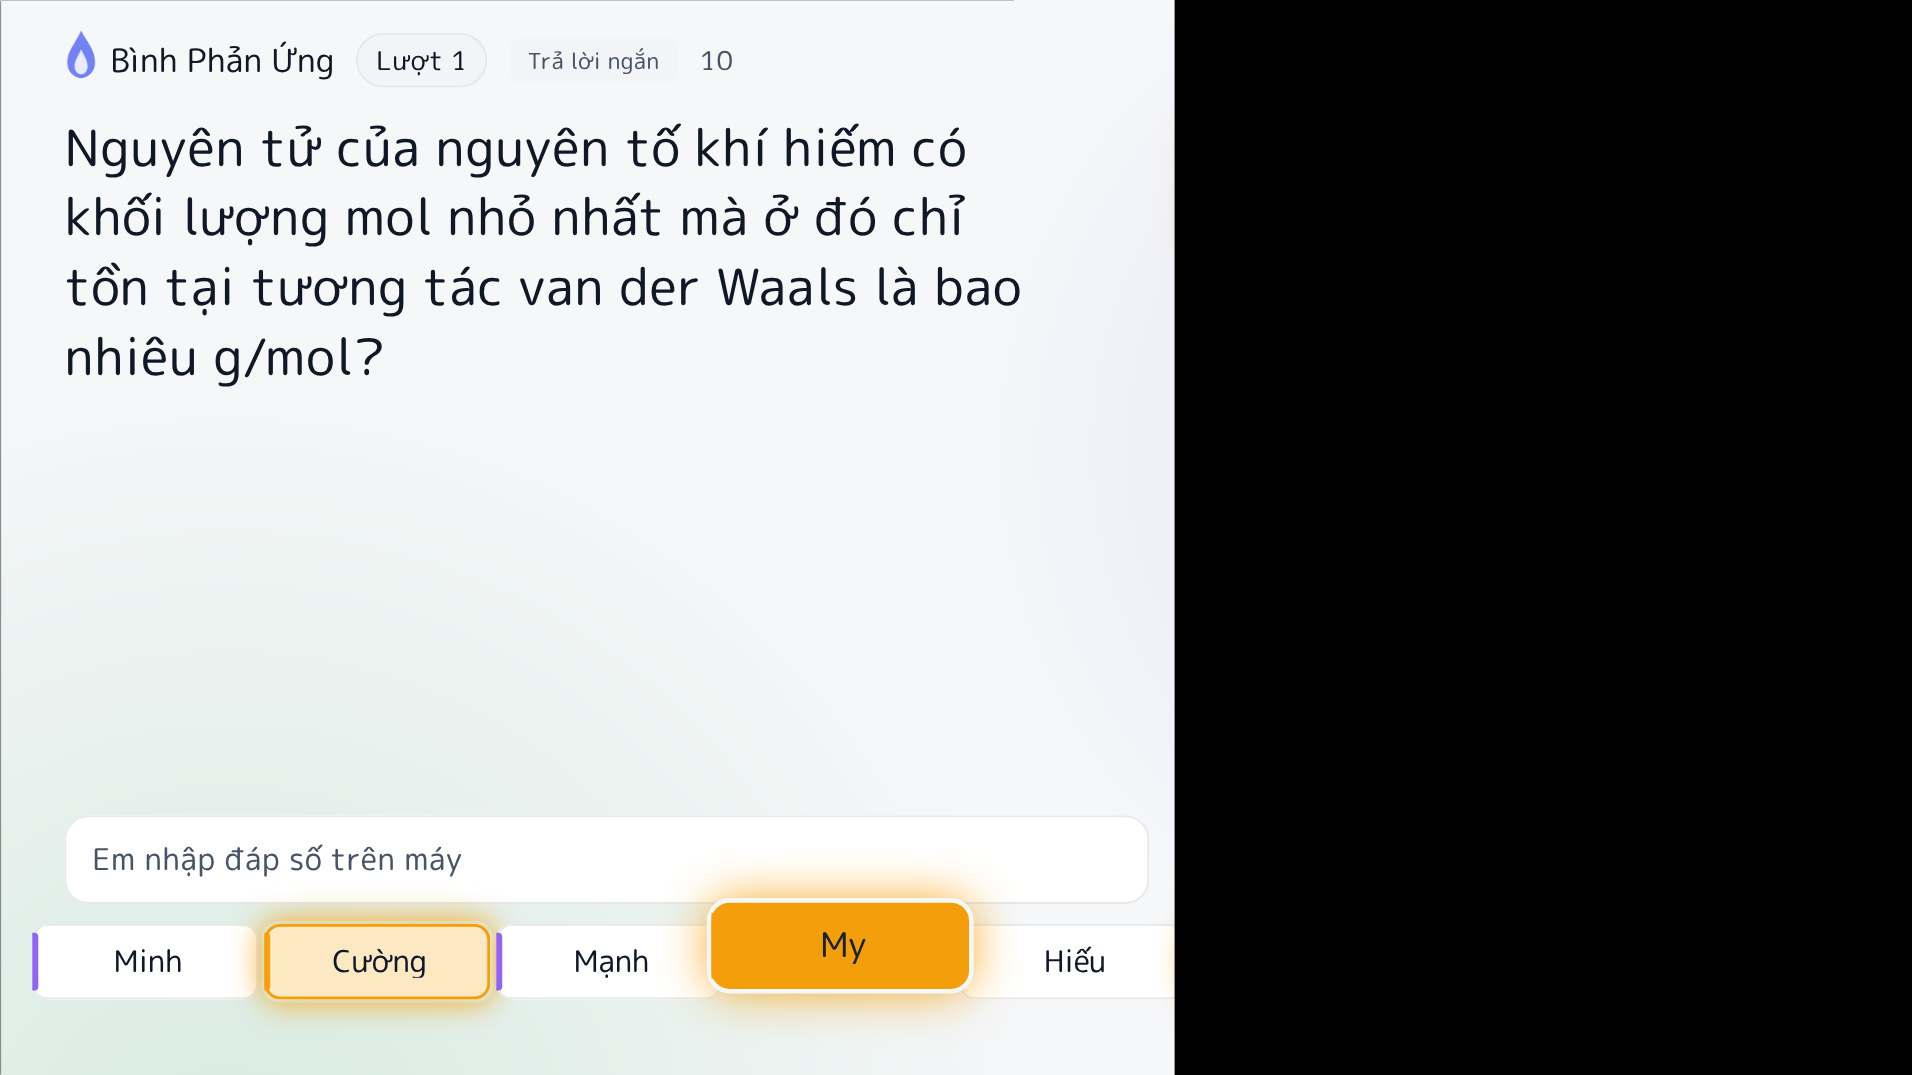
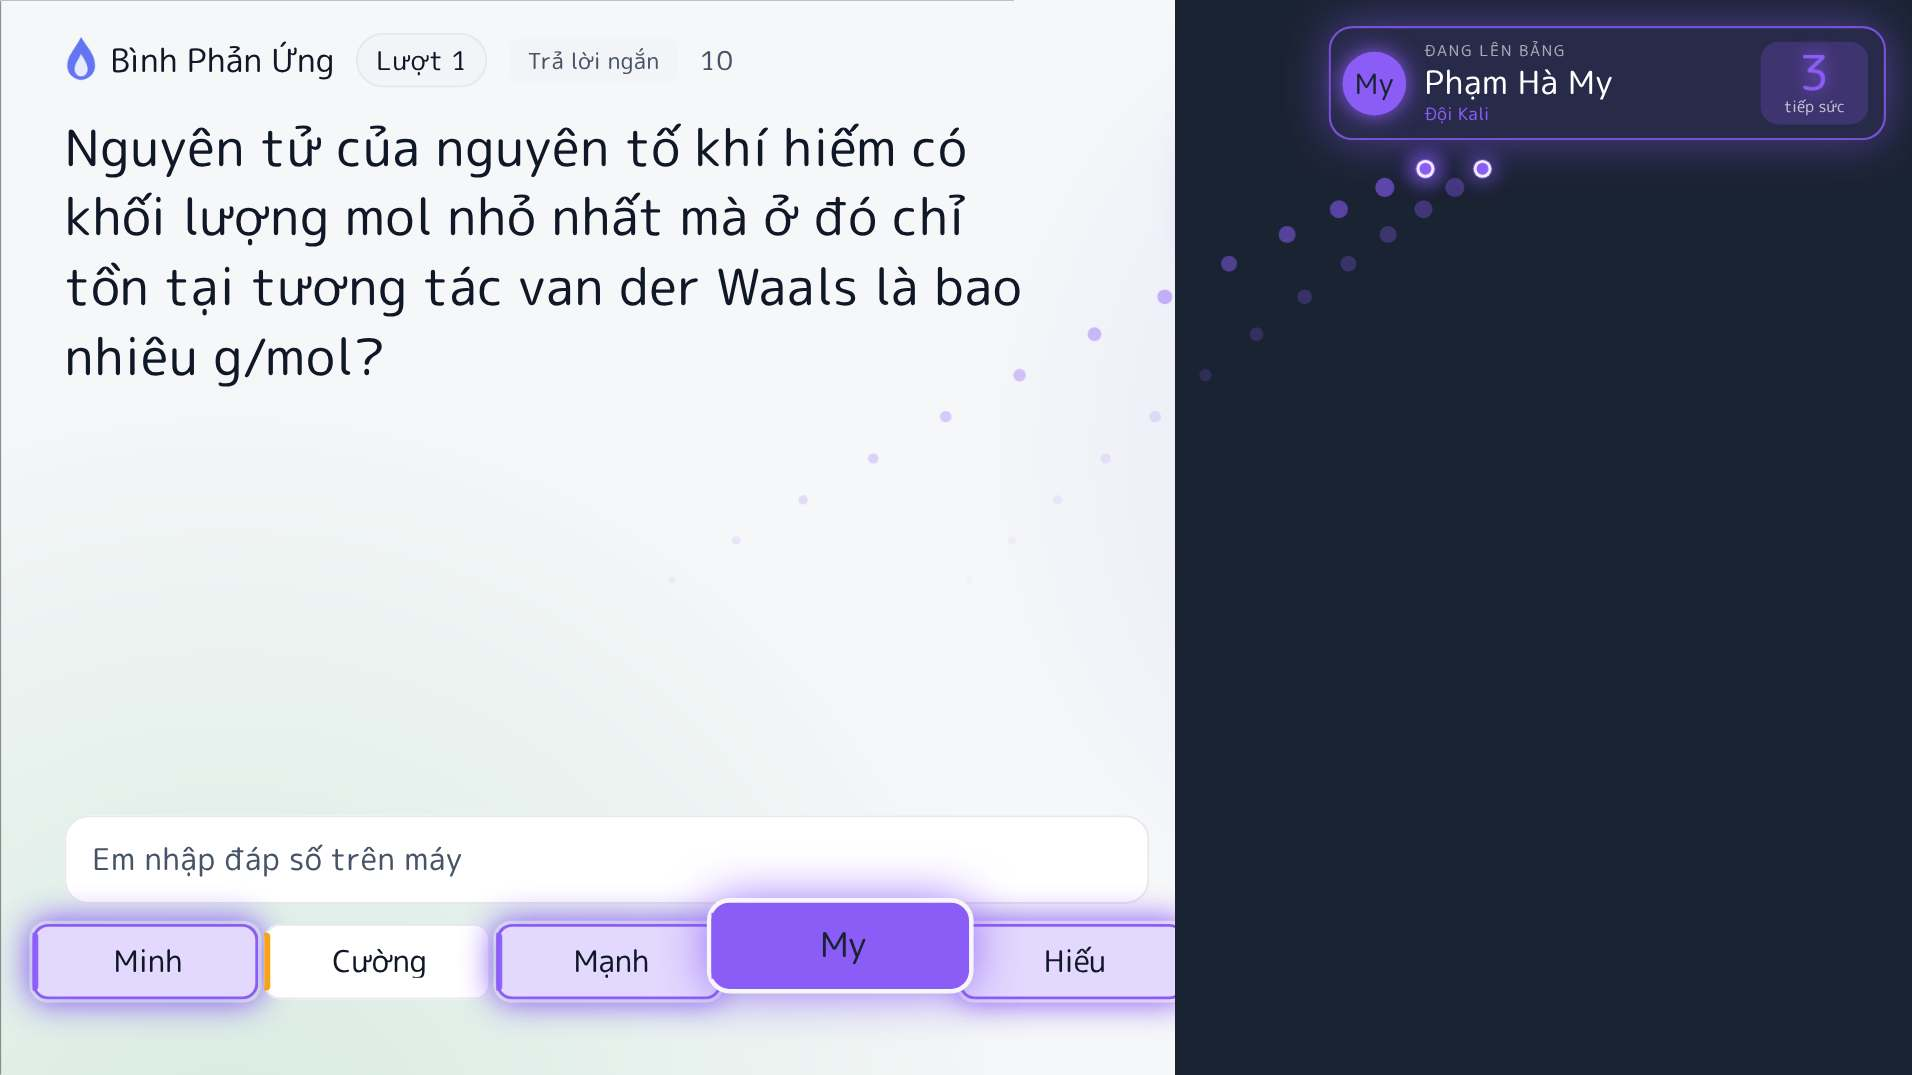
Bình Phản Ứng · em viết bảng: vùng phải tối nằm TRONG bảng dưới lớp hiệu ứng ⇒ tia lửa tiếp sức vẫn bay trên nền tối; thẻ nhỏ góc trên (chấm đội · tên · đội · SỐ TIẾP SỨC lớn, mỗi lượt tiếp sức số nảy + thẻ bừng sáng), tia lửa bay vào thẻ; ẩn nút Đóng lúc này (Esc vẫn đóng) (thầy 07/11)
Claude-Session: https://claude.ai/code/session_01Ep3ep8ZpZKueNTRQ5N28vH

diff --git a/src/components/bpu/BangBinhPhanUng.tsx b/src/components/bpu/BangBinhPhanUng.tsx
@@ -97,6 +97,8 @@ export default function BangBinhPhanUng({ buoiId, ma, linkQr, qid, luot = 0, gia
   /** TẮT VÙNG EM VIẾT (thầy 07/11 «tắt máy chiếu ở phần học sinh viết lên bảng» · «chỉ tắt phần hs lên bảng làm thôi»): pha «làm bảng» ⇒ nửa phải
    *  (cột kết quả) đen — máy chiếu không rọi lên chỗ em viết, đề bên trái vẫn sáng; phím D / F / N / Space vẫn chạy; B (hoặc chạm) bật lại, B lần nữa tắt. */
   const [batLai, setBatLai] = useState(false)
+  const batLaiRef = useRef(false)
+  batLaiRef.current = batLai
   const sangCau = useCallback((d: 1 | -1) => { setDangSang(true); onToi?.(d) }, [onToi])
   /** LỜI GIẢI TRÊN BẢNG (thầy 07/11 «bấm lời giải lại hiện bảng chiếu cũ»): G / nút / máy điều khiển ⇒ hộp lời giải thu gọn đè chỗ đề; G lần nữa ẩn. */
   const [giai, setGiai] = useState<string | null>(null)
@@ -203,6 +205,8 @@ export default function BangBinhPhanUng({ buoiId, ma, linkQr, qid, luot = 0, gia
 
   const l = v?.luot ?? null
   const man: Man = manPhu ?? (!l ? 'diem-danh' : l.pha)
+  /** Em đang viết bảng và thầy chưa bật lại vùng phải ⇒ vùng phải tối, chỉ còn thẻ góc + hiệu ứng tiếp sức. */
+  const vietBang = man === 'lam-bang' && !batLai && !moPhim
   const ds = v?.ds ?? []
   // Dải tên: CHỈ các em có mặt (thầy 07/11), tối đa hai hàng; thứ tự giữ theo danh sách lớp.
   const hien = useMemo(() => (v?.ds ?? []).filter((e) => e.vao), [v?.ds])
@@ -270,7 +274,8 @@ export default function BangBinhPhanUng({ buoiId, ma, linkQr, qid, luot = 0, gia
     }
     if (l2?.goi && l1?.goi && l1.so === l2.so && l2.goi.tiep > l1.goi.tiep) {
       const ban = v.ds.filter((e) => e.doi === v.ds.find((x) => x.sbd === l2.goi!.sbd)?.doi && e.sbd !== l2.goi!.sbd && e.vao)
-      const den = l2.pha === 'lam-bang' ? { x: 1266, y: 222 } : { x: 496, y: 427 }
+      // Em đang viết bảng (vùng phải tắt) ⇒ tia lửa bay vào THẺ GÓC trên phải; bật lại màn ⇒ thẻ cột phải như cũ.
+      const den = l2.pha === 'lam-bang' ? (batLaiRef.current ? { x: 1266, y: 222 } : { x: 1612, y: 112 }) : { x: 496, y: 427 }
       for (let n = 0; n < Math.min(6, l2.goi.tiep - l1.goi.tiep); n++) { const b = ban[Math.floor(Math.random() * ban.length)]; if (b) vb.bayHat(viTriO(idx.get(b.sbd)!, L), den, vb.mau.doi[b.doi]!, 800) }
     }
     if (l2?.pha === 'mo' && l1?.pha !== 'mo' && !l2.tuLuan) {
@@ -513,15 +518,14 @@ export default function BangBinhPhanUng({ buoiId, ma, linkQr, qid, luot = 0, gia
   }
 
   return createPortal(
-    <div ref={goc} className="bpu-bang" role="dialog" aria-modal="true" aria-label="Bình Phản Ứng" tabIndex={-1}>
+    <div ref={goc} className={`bpu-bang${vietBang ? ' viet-bang' : ''}`} style={vietBang ? { ['--mep' as string]: `calc(50% + ${(1180 - 960) * k}px)` } : undefined} role="dialog" aria-modal="true" aria-label="Bình Phản Ứng" tabIndex={-1}>
       <div ref={san} className="bb-san" style={{ transform: `translate(-50%, -50%) scale(${k})` }}>
         <canvas ref={cv} className="bb-ve" aria-hidden="true" />
         {noi}
+        {vietBang && l?.goi && goiEm ? <VungVietBang g={l.goi} em={goiEm} tenHien={(e: Em) => (an ? ten(e) : e.ten)} onBat={() => setBatLai(true)} /> : null}
         <canvas ref={cvTren} className="bb-ve tren" aria-hidden="true" />
       </div>
       <button type="button" className="bb-dong" onClick={onDong} aria-label="Đóng bảng Bình Phản Ứng">Đóng</button>
-      {/* Chỉ tắt VÙNG EM VIẾT (bên phải, từ mép cột đề tới hết màn); đề bên trái vẫn sáng (thầy 07/11 «chỉ tắt phần hs lên bảng làm thôi»). */}
-      {man === 'lam-bang' && !batLai && !moPhim ? <div className="bb-tat-man" role="status" aria-label="Vùng em viết tạm tắt chiếu. B hoặc chạm để bật lại" style={{ left: `calc(50% + ${(1180 - 960) * k}px)` }} onClick={() => setBatLai(true)} /> : null}
     </div>,
     document.body,
   )
@@ -571,4 +575,19 @@ function nhanOng(l: NonNullable<ViewBang['luot']>, vb: VeBang | null): { x: numb
   if (l.phan === 'II') return ['D', 'S'].flatMap((k, h) => [0, 1, 2, 3].map((i) => ({ x: X_DS(i), y: HANG_DS[h]!.day - 128 + 8, gon: true, nhan: `${'abcd'[i]})`, dem: chon.filter((x) => x.toUpperCase()[i] === k).length, dung: dung[i] === k })))
   void vb
   return nhomTln(l).map((x, i) => ({ x: 1300 + i * 152, y: ONG_GON.day - 128 + 14, ...x }))
+}
+
+/** VÙNG EM VIẾT (thầy 07/11 «chỉ tắt phần hs lên bảng làm thôi» · «vẫn hiện thẻ hs lên bảng ở góc trên chỗ màu đen, làm cho tinh tế, hiệu ứng tiếp sức
+ *  vẫn hiện đầy đủ để hs thấy phấn khích»): nửa phải tối (máy chiếu gần như không rọi lên chỗ em viết) — góc trên một thẻ nhỏ: chấm đội · tên · đội ·
+ *  SỐ TIẾP SỨC lớn (mỗi lượt tiếp sức: số nảy + thẻ bừng sáng); tia lửa từ ô các bạn bay vào thẻ (canvas trên cùng vẫn vẽ trên vùng tối). Chạm ⇒ bật lại. */
+function VungVietBang({ g, em, tenHien, onBat }: { g: NonNullable<NonNullable<ViewBang['luot']>['goi']>; em: Em; tenHien: (e: Em) => string; onBat: () => void }) {
+  return (
+    <div className="bb-den" role="status" aria-label="Vùng em viết tạm tắt chiếu. B hoặc chạm để bật lại" onClick={onBat} style={{ ['--doi' as string]: mauDoi(em.doi) }}>
+      <div key={g.tiep} className={`bb-goc${g.tiep > 0 ? ' nay' : ''}`}>
+        <div className="ng">{kyHieu(em.ten)}</div>
+        <div className="chu"><span className="mat">Đang lên bảng</span><b>{tenHien(em)}</b><span className="doi">{DOI_BPU[em.doi]?.ten}</span></div>
+        <div className="ts"><b>{g.tiep}</b><span>tiếp sức</span></div>
+      </div>
+    </div>
+  )
 }

diff --git a/src/components/bpu/bpu-bang.css b/src/components/bpu/bpu-bang.css
@@ -284,5 +284,25 @@ html.may-yeu .bpu-bang * { animation: none !important; transition: none !importa
 .bb-ong.gon { width: 130px; margin-left: -65px; font-size: 24px; color: var(--tr-chu-2); white-space: nowrap; font-variant-numeric: tabular-nums; animation-delay: 1.2s; }
 .bb-ong.gon b { color: var(--tr-chu); font-weight: 800; }
 .bb-ong.gon.dung, .bb-ong.gon.dung b { color: var(--tr-dung-chu); font-weight: 800; }
-/* Em viết lên bảng (pha «làm bảng», thầy 07/11): chỉ VÙNG EM VIẾT (nửa phải, mép trái do bảng tính theo cỡ sân khấu) đen — đề bên trái vẫn sáng. */
-.bpu-bang .bb-tat-man { position: fixed; top: 0; right: 0; bottom: 0; z-index: 10; background: var(--p-muc); cursor: pointer; } /* mực chuẩn (gần đen) — luật giữ màu: không thêm màu thô */
+/* VÙNG EM VIẾT (thầy 07/11): nửa phải tối, ngay dưới lớp hiệu ứng (canvas .tren z 9) ⇒ tia lửa tiếp sức vẫn bay trên nền tối; khoảng thừa ngoài sân khấu
+   bên phải cũng tối (--mep = mép trái vùng tối trên màn). Màu: mực chuẩn --p-muc; chữ trắng cố định --giay; viền / sáng theo màu đội --doi. */
+.bpu-bang.viet-bang { --mep: 61.5%; background: linear-gradient(to right, var(--tr-nen) var(--mep), var(--p-muc) var(--mep)); }
+.bb-den { position: absolute; left: 1180px; top: 0; width: 740px; height: 1080px; z-index: 8; background: var(--p-muc); cursor: pointer; }
+.bb-goc { position: absolute; top: 26px; right: 26px; width: 560px; display: flex; align-items: center; gap: 18px; padding: 14px 18px 14px 14px; border-radius: 24px;
+  background: color-mix(in srgb, var(--doi) 12%, var(--p-muc)); box-shadow: inset 0 0 0 2px color-mix(in srgb, var(--doi) 70%, transparent), 0 0 34px color-mix(in srgb, var(--doi) 30%, transparent); color: var(--giay); }
+.bb-goc .ng { flex: none; width: 64px; height: 64px; border-radius: 50%; display: grid; place-items: center; background: var(--doi); color: var(--p-muc); font-size: 28px; font-weight: 900; box-shadow: 0 0 22px var(--doi); }
+.bb-goc .chu { flex: 1; min-width: 0; display: grid; gap: 2px; }
+.bb-goc .mat { font-size: 15px; font-weight: 800; letter-spacing: 0.1em; text-transform: uppercase; color: color-mix(in srgb, var(--giay) 60%, transparent); }
+.bb-goc .chu b { font-size: 32px; font-weight: 900; line-height: 1.1; white-space: nowrap; overflow: hidden; text-overflow: ellipsis; }
+.bb-goc .doi { font-size: 17px; font-weight: 700; color: var(--doi); }
+.bb-goc .ts { flex: none; display: grid; justify-items: center; min-width: 108px; padding: 6px 12px; border-radius: 18px; background: color-mix(in srgb, var(--doi) 22%, transparent); }
+.bb-goc .ts b { font-size: 48px; font-weight: 900; line-height: 1; color: var(--doi); font-variant-numeric: tabular-nums; text-shadow: 0 0 18px var(--doi); }
+.bb-goc .ts span { font-size: 15px; font-weight: 800; color: color-mix(in srgb, var(--giay) 70%, transparent); }
+/* Mỗi lượt tiếp sức (key đổi ⇒ chạy lại): thẻ bừng sáng + số nảy. */
+.bb-goc.nay { animation: bb-goc-sang 0.9s ease-out; }
+.bb-goc.nay .ts b { animation: bb-ts-nay 0.5s cubic-bezier(.3, 1.6, .5, 1); }
+@keyframes bb-goc-sang { 0% { box-shadow: inset 0 0 0 3px var(--doi), 0 0 80px var(--doi); } 100% { box-shadow: inset 0 0 0 2px color-mix(in srgb, var(--doi) 70%, transparent), 0 0 34px color-mix(in srgb, var(--doi) 30%, transparent); } }
+@keyframes bb-ts-nay { 0% { transform: scale(1.6); } 100% { transform: scale(1); } }
+@media (prefers-reduced-motion: reduce) { .bb-goc.nay, .bb-goc.nay .ts b { animation: none; } }
+html.may-yeu .bb-goc.nay, html.may-yeu .bb-goc.nay .ts b { animation: none; }
+.bpu-bang.viet-bang .bb-dong { display: none; } /* thẻ góc đứng chỗ nút Đóng — Esc vẫn đóng */
